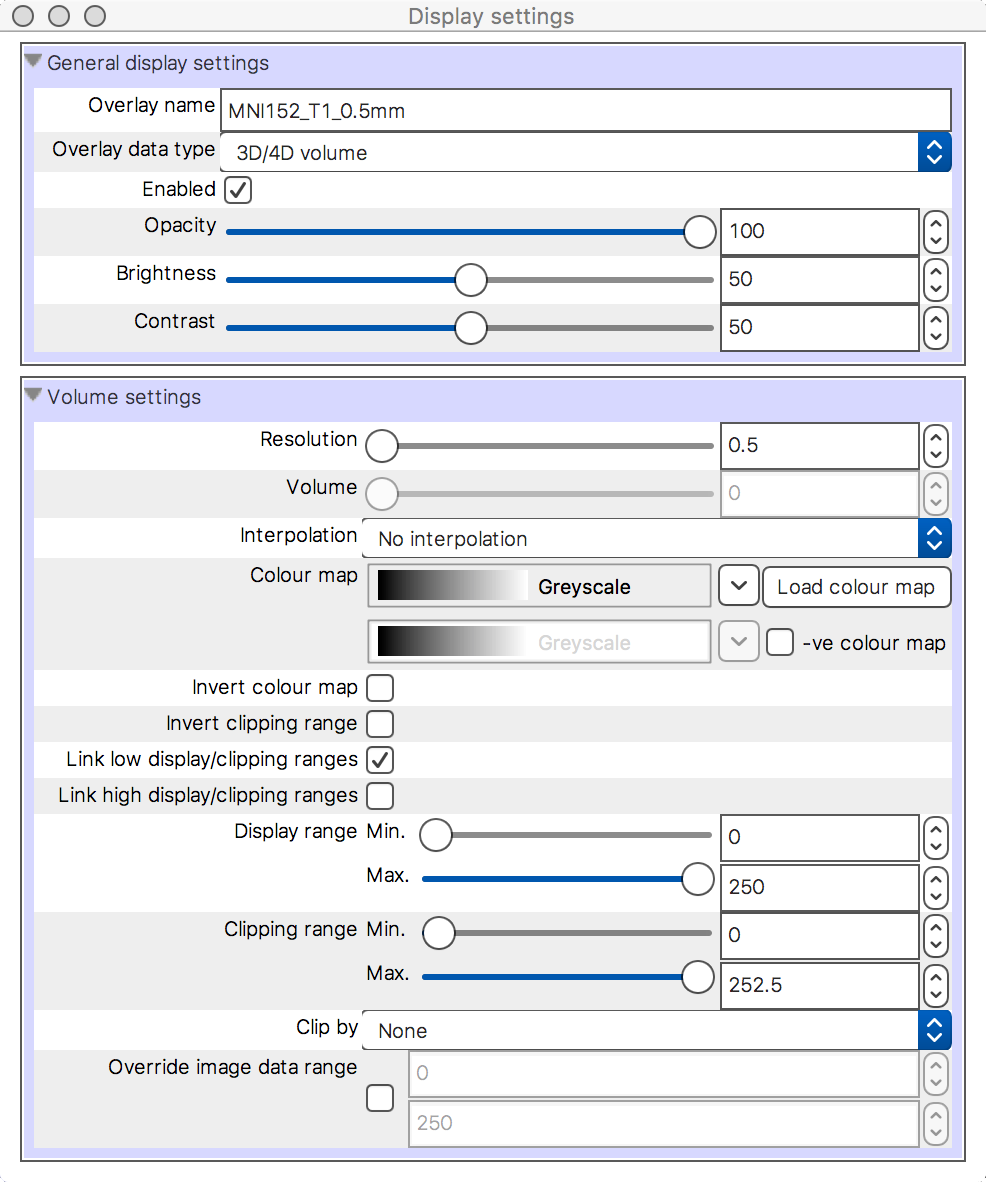
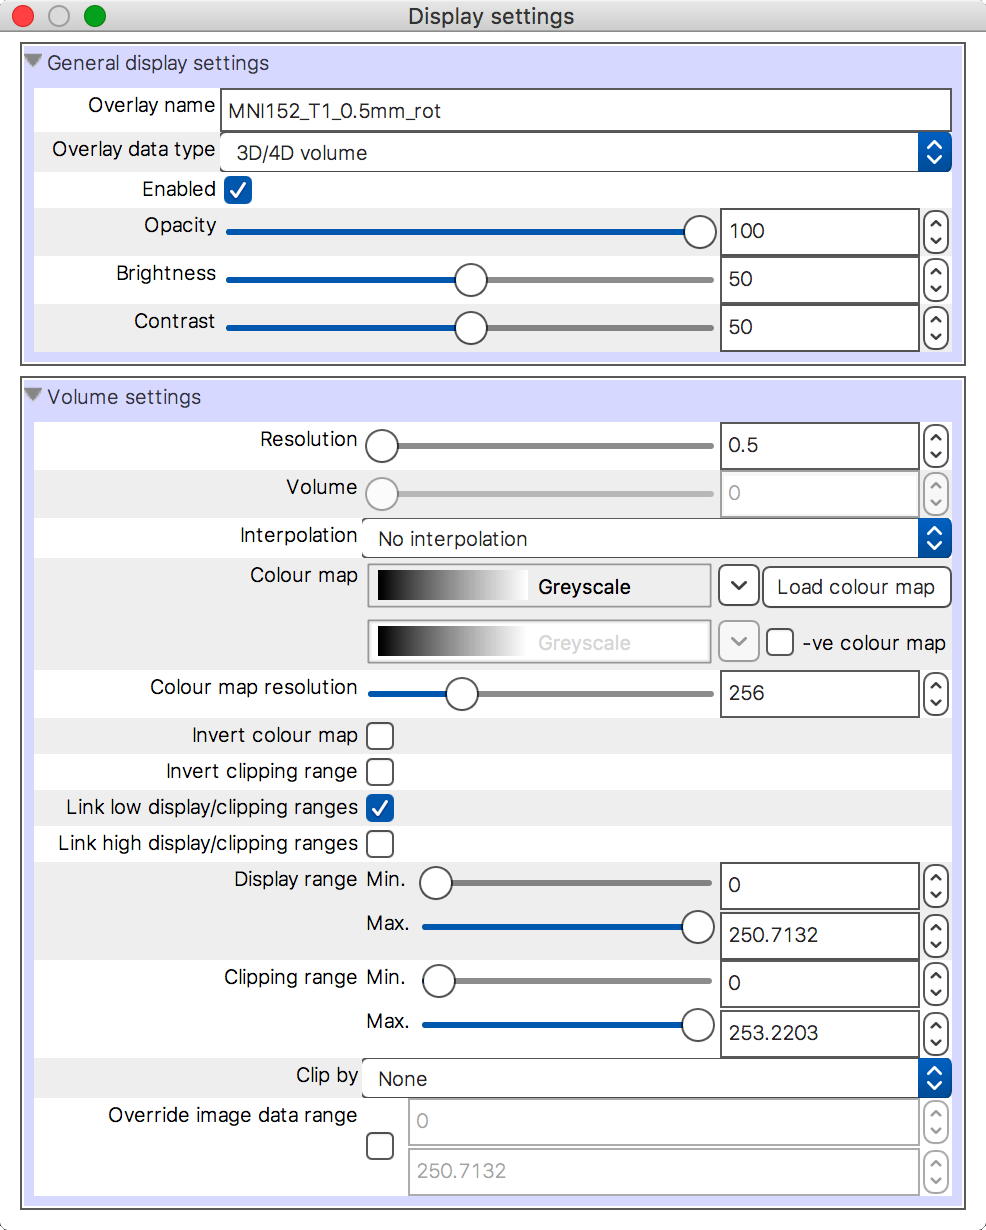
User docs

Changed region(s): [[0.0, 0.0, 1.0, 0.9746]]

diff --git a/userdoc/plot_views.rst b/userdoc/plot_views.rst
@@ -172,6 +172,8 @@ histogram view, allowing you to customise the histogram for the currently
 selected image:
 
 
+.. _plot_views_histogram_control:
+
 .. image:: images/plot_views_histogram_control.png
    :width: 60%
    :align: center
@@ -324,7 +326,9 @@ The *Import data series* button on the :ref:`plot toolbar
 to plot alongside the image data.
 
 
-.. sidebar:: Imported/exported data series file format
+.. _plot_views_import_export_data_series_file_format:
+
+.. sidebar:: Import/export data series file format
 
              FSLeyes expects the data series files that you import to consist
              of plain text numeric data organised into columns. One file may
@@ -334,16 +338,12 @@ to plot alongside the image data.
              samples::
                
 
-                 0.00392591  -1.53258e-05  -0.222667
-                 0.00581839  -8.19962e-05  -0.272648
-                 0.00550343   0.000167947  -0.188106
-                 0.00585702   4.19565e-05  -0.252987
-                 0.00583393  -0.000116993  -0.183033
-                 0.00536747   0.000352905  -0.226358
-
-
-             Exporting ....
-
+                 0.39  -1.53  -0.22
+                 0.58  -8.19  -0.27
+                 0.55   0.16  -0.18
+                 0.58   4.19  -0.25
+                 0.58  -0.11  -0.18
+                 0.53   3.5   -0.22
 
 
 For example, `FEAT <http://fsl.fmrib.ox.ac.uk/fsl/fslwiki/FEAT>`_ and `MELODIC
@@ -354,8 +354,136 @@ useful to plot these estimates alongside the voxel time series, to visually
 check for motion-related correlations and artefacts.
 
 
+When you import data series from a file, FSLeyes will ask you how the data
+series are to be scaled on the X axis: 
+
+
+.. image:: images/plot_views_import_data_x_scale.png
+   :width: 40%
+   :align: center
+
+           
+If the first column in your data file contains the X axis data, click the
+*First column ix X data* button. Otherwise, FSLeyes will set the X axis data
+according to the value that you enter.
+
+
+The *Export data series* button on the :ref:`plot toolbar
+<plot_views_plot_toolbar>` allows you to save the data series that are
+currently plotted to a text file in the format described in the :ref:`sidebar
+<plot_views_import_export_data_series_file_format>`. To export data series of
+different lengths and sample rates out to the same text file, FSLeyes applies
+linear interpolation, and pads shorter data series with ``nan``.
+
 
 .. _plot_views_plot_control_panel_customising_the_plot: 
 
 The plot control panel (customising the plot)
 ---------------------------------------------
+
+
+The plot control panel contains all of the settings available for customising
+how each plotting view behaves, and how it looks. The available settings are
+organised into three groups:
+
+
+.. image:: images/plot_views_plot_control_panel_groups.png
+   :width: 30%
+   :align: center
+
+
+The view-specific settings (*Time series settings* in the above example) have
+been covered above, in the sections on the :ref:`time series
+<plot_views_time_series_view>`, :ref:`power spectrum
+<plot_views_power_spectrum_view>`, and :ref:`histogram
+<plot_views_histogram_view>` views. The *General plot settings* and *Plot
+settings for selected overlay* groups are the same across all plotting views.
+
+
+A fourth group of settings may be present, depending on the plotting view type
+(e.g. the :ref:`histogram settings <plot_views_histogram_control>`), and on
+the overlay type (e.g. :ref:`FEAT images <todo>`).
+
+
+General plot settings
+^^^^^^^^^^^^^^^^^^^^^
+
+
+This group of settings allows you to control how the plot looks and how it
+behaves:
+
+
+.. image:: images/plot_views_plot_control_panel_general_plot_settings.png
+   :width: 50%
+   :align: center
+
+
+.. _plot_views_data_series_smoothing:
+           
+.. sidebar:: Data series smoothing 
+
+             FSLeyes smooths each data series using the `scipy.interpolate
+             <https://docs.scipy.org/doc/scipy/reference/interpolate.html>`_
+             package. First, a B-spline representation, of degree 3, of the
+             data series is calculated using the `splrep
+             <https://docs.scipy.org/doc/scipy/reference/generated/scipy.interpolate.splrep.html>`_
+             function. Then, the data series is interpolated at five times its
+             resolution using the `splev
+             <https://docs.scipy.org/doc/scipy/reference/generated/scipy.interpolate.splev.html>`_
+             function.
+
+
+- **Log scale (x axis)** When selected, the base 10 logarithm of the X axis
+  data will be displayed.
+  
+- **Log scale (y axis)** When selected, the base 10 logarithm of the Y axis
+  data will be displayed.
+  
+- **Smooth** When selected, each data series is upsampled and smoothed (see
+  the :ref:`sidebar <plot_views_data_series_smoothing>`).
+  
+- **Show legend** Toggle the plot legend on and off.
+  
+- **Show ticks** Toggle the plot ticks on and off.
+  
+- **Show grid** Toggle the plot grid on and off.
+  
+- **Grid colour** This setting allows you to change the plot grid colour.
+  
+- **Background colour** This setting allows you to change the plot background
+  colour.
+  
+- **Auto-scale (x axis)** This setting is selected by default. When selected,
+  the X axis limits are automatically scaled to fit the data series that are
+  plotted.
+  
+- **Auto-scale (y axis)** This setting is selected by default. When selected,
+  the Y axis limits are automatically scaled to fit the data series that are
+  plotted.
+  
+- **X limits** If *Auto-scale* is disabled for the X axis, this setting allows
+  you to manually specify the X axis limits.
+  
+- **Y limits** If *Auto-scale* is disabled for the Y axis, this setting allows
+  you to manually specify the Y axis limits.
+  
+- **Labels** Set the X and Y axis labels here.
+
+
+Plot settings for selected overlay
+^^^^^^^^^^^^^^^^^^^^^^^^^^^^^^^^^^
+
+
+This group of settings allows you to control how the data series for the
+current overlay is plotted.
+
+
+.. image:: images/plot_views_plot_control_panel_plot_settings_for_selected_overlay.png
+   :width: 35%
+   :align: center
+
+
+You can customise the data series line colour, transparency, width, and
+style - available styles are *Solid line*, *Dashed line*, *Dash-dot line*, and
+*Dotted line*.
+           

diff --git a/userdoc/index.rst b/userdoc/index.rst
@@ -68,7 +68,8 @@ Plotting
 :ref:`Plot toolbar <plot_views_plot_toolbar>`
 :ref:`Plot control panel <plot_views_plot_control_panel_customising_the_plot>`
 :ref:`Importing/exporting data series <plot_views_importing_exporting_data>`
-
+:ref:`Import/export data series file format <plot_views_import_export_data_series_file_format>`
+:ref:`Data series smoothing <plot_views_data_series_smoothing>`
 
 
 

diff --git a/userdoc/overlays.rst b/userdoc/overlays.rst
@@ -268,6 +268,8 @@ The following settings are available for volume overlays:
   the display and clipping range will be applied inversely to both positive
   and negative values.
 
+- **Colour map resolution**
+
 
 - **Invert colour map** This setting inverts the colour map, so that low voxel
   intensities are coloured with the high colour from the colour map, and
